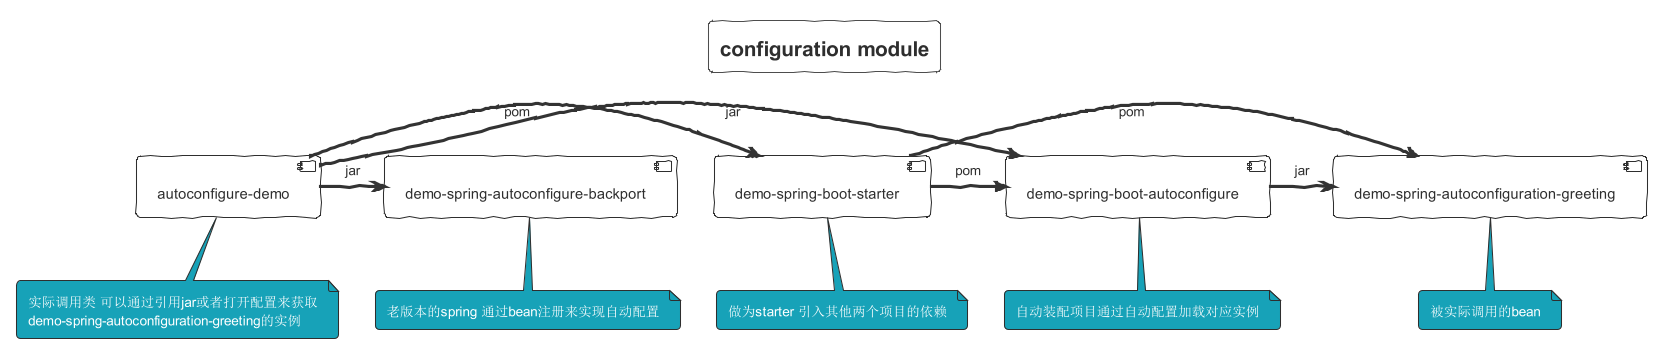
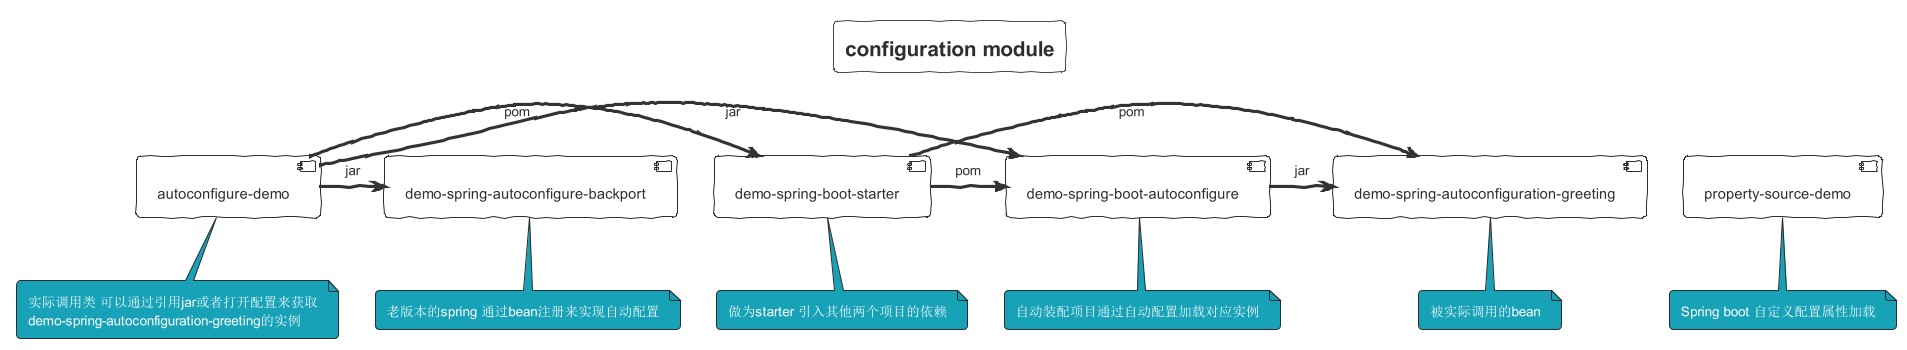
add property source

diff --git a/spring-boot-configuration/property-source-demo/src/main/java/com/fantasybaby/spring/propertysource/CustomerEnvironmentPostProcessor.java b/spring-boot-configuration/property-source-demo/src/main/java/com/fantasybaby/spring/propertysource/CustomerEnvironmentPostProcessor.java
@@ -1,28 +1,38 @@
-package geektime.spring.hello;
+package com.fantasybaby.spring.propertysource;
 
 import lombok.extern.slf4j.Slf4j;
 import org.springframework.boot.SpringApplication;
 import org.springframework.boot.env.EnvironmentPostProcessor;
 import org.springframework.boot.env.PropertiesPropertySourceLoader;
+import org.springframework.boot.env.YamlPropertySourceLoader;
 import org.springframework.core.env.ConfigurableEnvironment;
 import org.springframework.core.env.MutablePropertySources;
 import org.springframework.core.env.PropertySource;
 import org.springframework.core.io.ClassPathResource;
 import org.springframework.core.io.Resource;
 
+import java.io.IOException;
+
 @Slf4j
-public class YapfEnvironmentPostProcessor implements EnvironmentPostProcessor {
+public class CustomerEnvironmentPostProcessor implements EnvironmentPostProcessor {
     private PropertiesPropertySourceLoader loader = new PropertiesPropertySourceLoader();
+    private YamlPropertySourceLoader yamlPropertySourceLoader = new YamlPropertySourceLoader();
+
     @Override
     public void postProcessEnvironment(ConfigurableEnvironment environment, SpringApplication application) {
         MutablePropertySources propertySources = environment.getPropertySources();
-        Resource resource = new ClassPathResource("yapf.properties");
+        Resource resource = new ClassPathResource("customer.properties");
+        Resource yamlResource = new ClassPathResource("customer.yaml");
         try {
-            PropertySource ps = loader.load("YetAnotherPropertiesFile", resource)
+            PropertySource ps = loader.load("first", resource)
                     .get(0);
             propertySources.addFirst(ps);
+
+            PropertySource<?> propertySource = yamlPropertySourceLoader.load("second", yamlResource).get(0);
+            propertySources.addAfter("first", propertySource);
         } catch (Exception e) {
             log.error("Exception!", e);
         }
+
     }
 }

diff --git a/spring-boot-configuration/property-source-demo/src/main/java/com/fantasybaby/spring/propertysource/PropertySourceDemoApplication.java b/spring-boot-configuration/property-source-demo/src/main/java/com/fantasybaby/spring/propertysource/PropertySourceDemoApplication.java
@@ -1,0 +1,27 @@
+package com.fantasybaby.spring.propertysource;
+
+import lombok.extern.slf4j.Slf4j;
+import org.springframework.beans.factory.annotation.Value;
+import org.springframework.boot.ApplicationArguments;
+import org.springframework.boot.ApplicationRunner;
+import org.springframework.boot.SpringApplication;
+import org.springframework.boot.autoconfigure.SpringBootApplication;
+
+@SpringBootApplication
+@Slf4j
+public class PropertySourceDemoApplication implements ApplicationRunner {
+    @Value("${fantasybaby.property}")
+    private String property;
+    @Value("${fantasybaby.yaml-property}")
+    private String yamlProperty;
+
+    public static void main(String[] args) {
+        SpringApplication.run(PropertySourceDemoApplication.class, args);
+    }
+
+    @Override
+    public void run(ApplicationArguments args) {
+        log.info("first:{}", property);
+        log.info("second:{}", yamlProperty);
+    }
+}

diff --git a/spring-boot-configuration/property-source-demo/src/test/java/com/fantasybaby/spring/propertysource/PropertySourceDemoApplicationTests.java b/spring-boot-configuration/property-source-demo/src/test/java/com/fantasybaby/spring/propertysource/PropertySourceDemoApplicationTests.java
@@ -1,4 +1,4 @@
-package geektime.spring.hello;
+package com.fantasybaby.spring.propertysource;
 
 import org.junit.Test;
 import org.junit.runner.RunWith;
